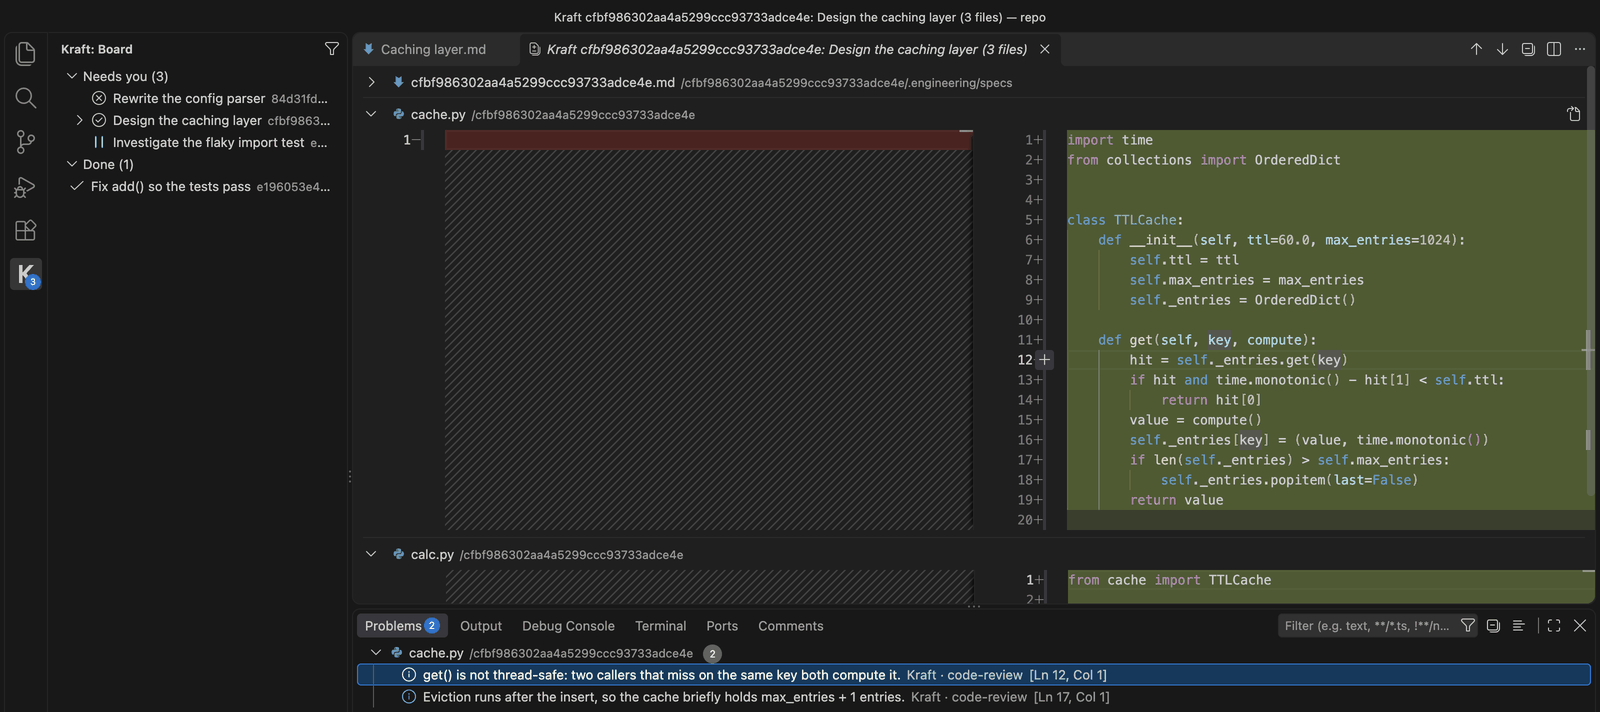
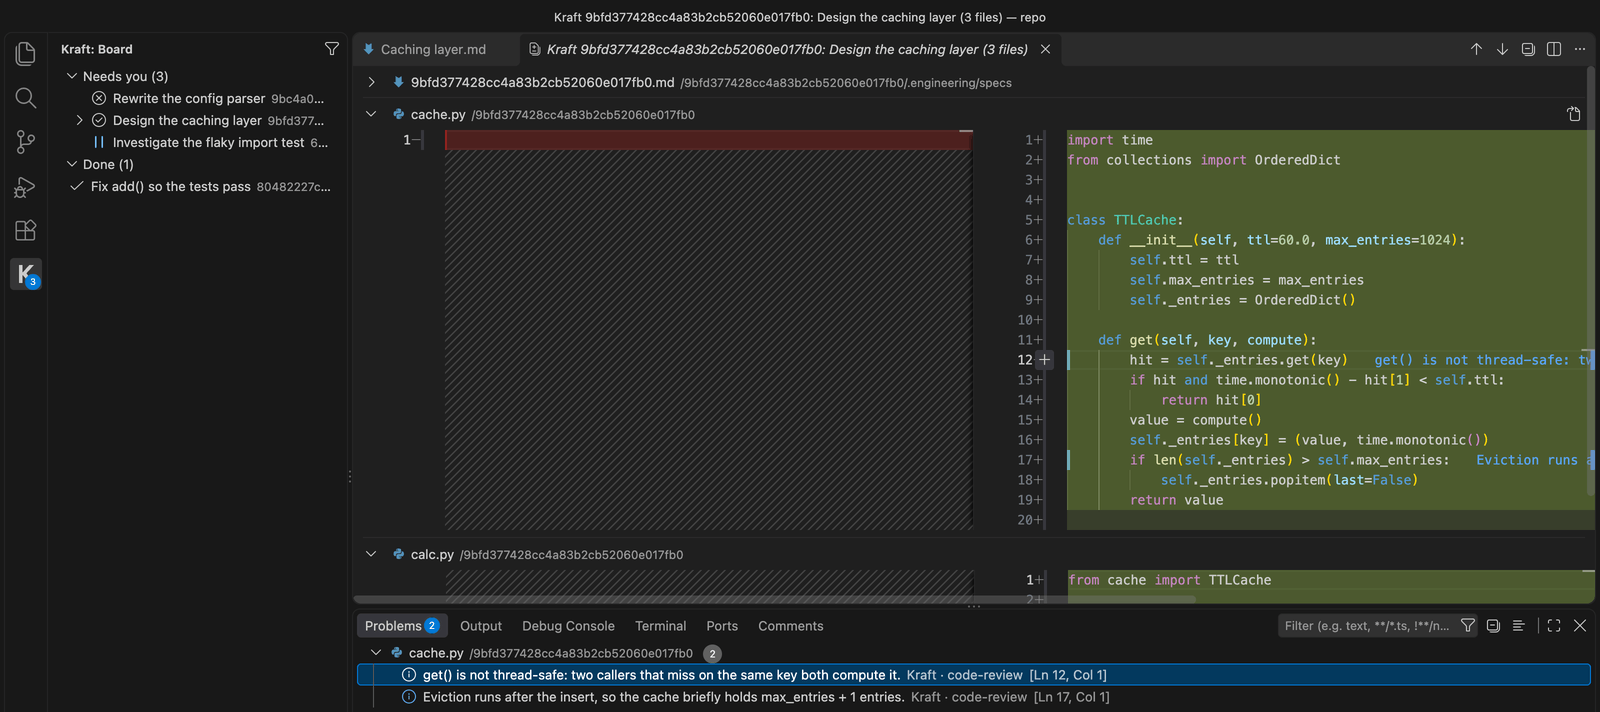
vscode: retake the review screenshot with findings marked on their lines
The screenshot tool now closes the YAML nudge toast before the gate
notification shot and leaves the Problems filter empty.

diff --git a/vscode/src/review/findings.ts b/vscode/src/review/findings.ts
@@ -18,7 +18,7 @@ export function registerFindings(context: vscode.ExtensionContext, store: Store)
   const collection = vscode.languages.createDiagnosticCollection("kraft-findings");
   const owned = new Map<string, string[]>();
   const byUri = new Map<string, LocatedFinding[]>();
-  // A left bar, an overview-ruler tick and the message after the line, in the severity's colour:
+  // A left bar, an overview-ruler tick and the message after the line, in the severity's color:
   // an Information squiggle does not render on the diff's added lines at all (Kraft-tugdf.20).
   const styles = Object.fromEntries(
     (Object.keys(COLOR) as Severity[]).map((s) => {

diff --git a/vscode/README.md b/vscode/README.md
@@ -55,11 +55,11 @@ bar. A reject asks for a reason, which goes to the agent.
 
 ## Review
 
-![A work item's branch in the multi-file diff editor, with review findings listed in the Problems panel](https://github.com/itsOmidKarami/kraft/raw/HEAD/vscode/media/screenshot-review.png)
+![A work item's branch in the multi-file diff editor, with review findings marked on their lines and listed in the Problems panel](https://github.com/itsOmidKarami/kraft/raw/HEAD/vscode/media/screenshot-review.png)
 
 Run **Review Changes** from an item's menu on the board, or from a gate
-document's title bar, to open its branch in the multi-file diff editor. Findings from the review agents show as diagnostics
-on the lines they name, and in the Problems panel. Comment on any line, then run
+document's title bar, to open its branch in the multi-file diff editor. Findings from the review agents show on the lines they
+name, as a colored bar with the message beside the line, and in the Problems panel. Comment on any line, then run
 **Submit Review**: your comments reach the agent as one note, as a reject at a
 gate or as a steer on a paused item. Approving instead asks before it discards
 your comments.

diff --git a/docsite/content/3.guides/07.vscode.md b/docsite/content/3.guides/07.vscode.md
@@ -43,8 +43,8 @@ in that tab's title bar and on the item in the sidebar.
 ## Review a branch
 
 Run **Review Changes** on an item, or from a gate document's title bar, to
-open its branch in the multi-file diff editor. Findings from the review agents show as diagnostics on the lines they
-name. Add a comment on any line, then run **Submit Review**: your comments go
+open its branch in the multi-file diff editor. Findings from the review agents show on the lines they
+name, as a colored bar with the message beside the line, and in the Problems panel. Add a comment on any line, then run **Submit Review**: your comments go
 to the agent as one note, as a reject at a gate or as a steer on a paused item.
 Approving instead asks before it discards your comments.
 
